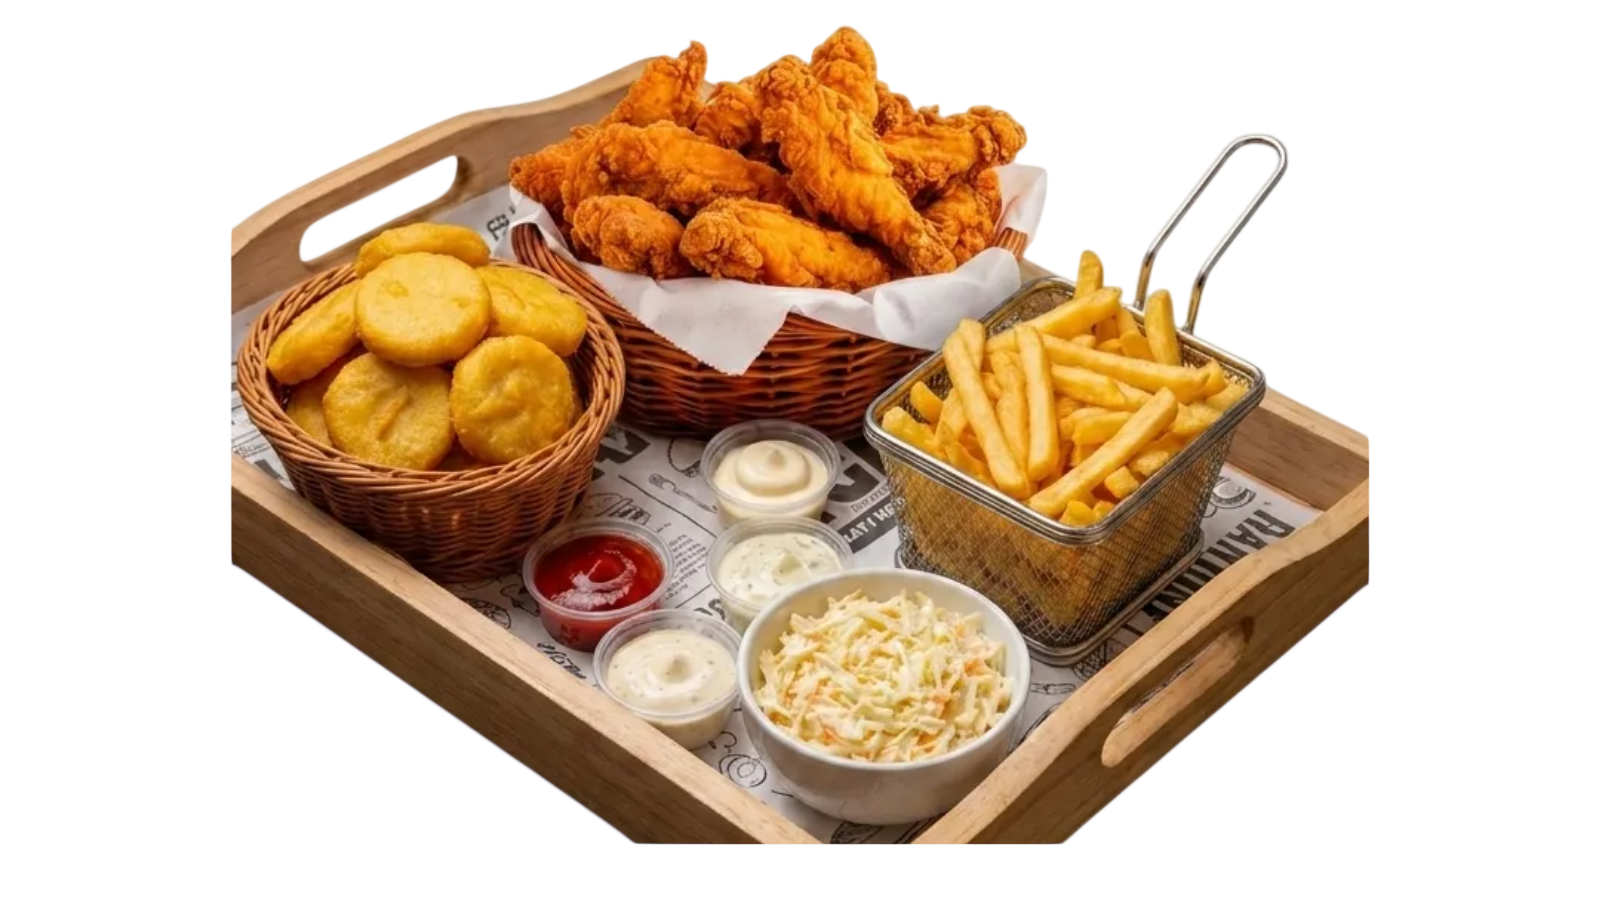
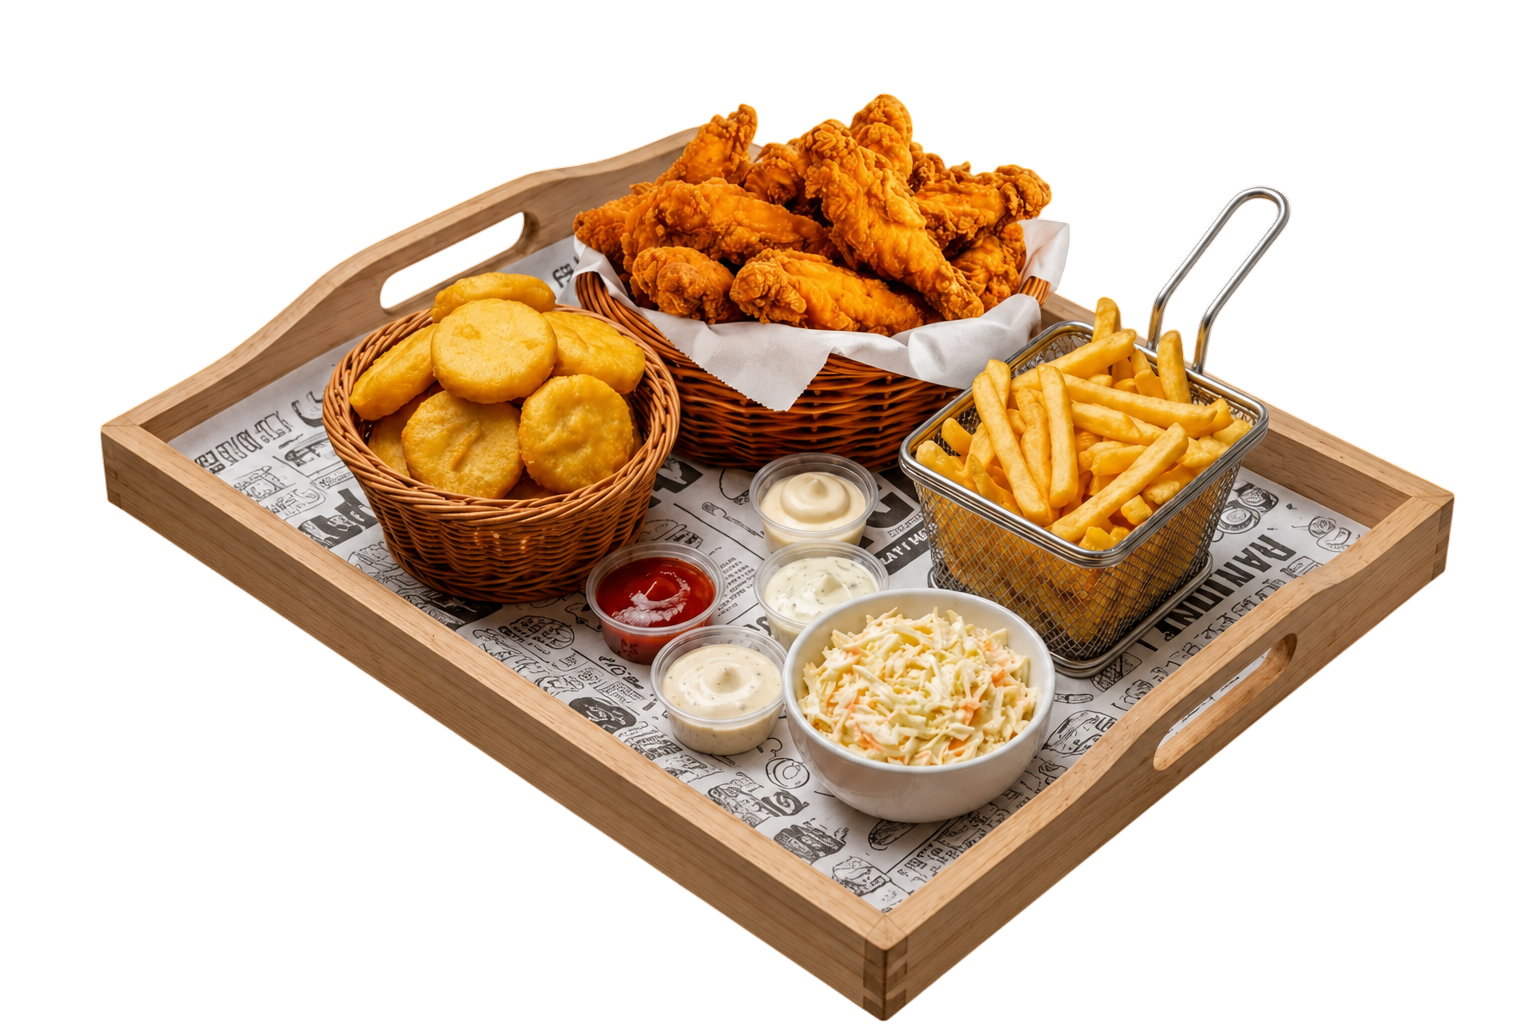
fixed mistakes

diff --git a/menu.css b/menu.css
@@ -43,6 +43,7 @@ body {
     font-family: 'League Spartan', sans-serif;
     font-weight: 600;
     font-size: 1rem;
+    width: fit-content;
     line-height: 1.5;
     color: var(--gris-texto);
     overflow-x: hidden;           /* las animaciones laterales no generan scroll horizontal */
@@ -236,36 +237,55 @@ button:focus-visible {
 /* =========================================================
    BANDA PROMOCIONAL
    ========================================================= */
+/* =========================================================
+   BANDA PROMOCIONAL
+   Las dos imágenes se tocan en el centro y comparten la misma
+   altura, así se leen como una sola pieza aunque sean 2 archivos.
+   ========================================================= */
 
 .prueba-dos {
     display: flex;
-    flex-wrap: wrap;
+    flex-wrap: nowrap;          /* nunca se apilan: deben quedar pegadas */
+    align-items: stretch;
+    overflow: hidden;
 }
 
 .prueba,
 .pruebaal {
-    display: flex;
-    align-items: center;
-    justify-content: center;
-    gap: 10px;
-    flex: 1 1 320px;
+    flex: 1 1 50%;
+    width: 50%;
     min-width: 0;
-    padding: 18px 14px;
+    display: flex;
+    flex-direction: column;     /* en teléfono: texto arriba, imagen abajo */
+    justify-content: flex-end;
+    gap: 10px;
+    padding-top: 18px;
+    padding-bottom: 0;          /* las imágenes se apoyan en la base */
 }
 
 .prueba {
     background-color: var(--blanco-hueso);
+    align-items: flex-end;      /* la imagen se pega al borde interior derecho */
+    padding-left: 12px;
+    padding-right: 0;
+    text-align: right;
 }
 
 .pruebaal {
     background-color: var(--rojo-brillante);
+    align-items: flex-start;    /* la imagen se pega al borde interior izquierdo */
+    padding-right: 12px;
+    padding-left: 0;
+    text-align: left;
 }
 
 .slogan-left,
 .slogan-right {
-    font-size: clamp(1.2rem, 5vw, 1.6rem);
+    align-self: stretch;
     font-family: 'MaryKate', cursive;
-    line-height: 1.2;
+    font-size: clamp(1rem, 4vw, 1.6rem);
+    line-height: 1.15;
+    overflow-wrap: break-word;
 }
 
 .slogan-left {
@@ -276,8 +296,11 @@ button:focus-visible {
     color: var(--blanco-hueso);
 }
 
+/* Altura idéntica en las dos = borde continuo donde se juntan */
 .grande {
-    width: clamp(90px, 24vw, 130px);
+    height: clamp(110px, 30vw, 170px);
+    width: auto;
+    max-width: none;
     flex-shrink: 0;
 }
 
@@ -487,3 +510,14 @@ button[type="submit"] {
     .left-aling.slide-in { transform: translateX(-150px); }
     .right-aling.slide-in { transform: translateX(150px); }
 }
+
+/*<article class="prueba-dos">
+   <div class="prueba">
+      <strong class="slogan-left">DISFRUTA LA MEJOR COMBINACION</strong>
+      <img src="imagenes/comboindividual (1).png" class="left-aling slide-in grande" alt="Bandeja individual de pollo broaster">
+   </div>
+   <div class="pruebaal">
+      <img src="imagenes/nestea.png" class="right-aling slide-in grande" alt="Nestea">
+      <strong class="slogan-right">NESTEA CON CIUDAD BROASTER</strong>
+   </div>
+</article>*/

diff --git a/index.html b/index.html
@@ -140,7 +140,7 @@
 <!-- ================= BANDA PROMOCIONAL ================= -->
 <article class="prueba-dos">
    <div class="prueba">
-      <strong class="slogan-left">DISFRUTA LA MEJOR COMBINACIÓN</strong>
+      <strong class="slogan-left">DISFRUTA LA MEJOR COMBINACION</strong>
       <img src="imagenes/comboindividual (1).png" class="left-aling slide-in grande" alt="Bandeja individual de pollo broaster">
    </div>
    <div class="pruebaal">
@@ -226,7 +226,7 @@
          <li><b>16 piezas pequeñas</b> Alcanza para 4 a 5 personas 39.99.</li>
       </ul>
 
-      <strong>Desde 24$</strong>
+      <strong>Desde 19.99$</strong>
       <img src="imagenes/combo12piezas.png" class="right-aling slide-in pequena" alt="Bandeja de piezas pequeñas de pollo broaster para compartir">
    </div>
    <a class="cta" href="#miFormulario">
